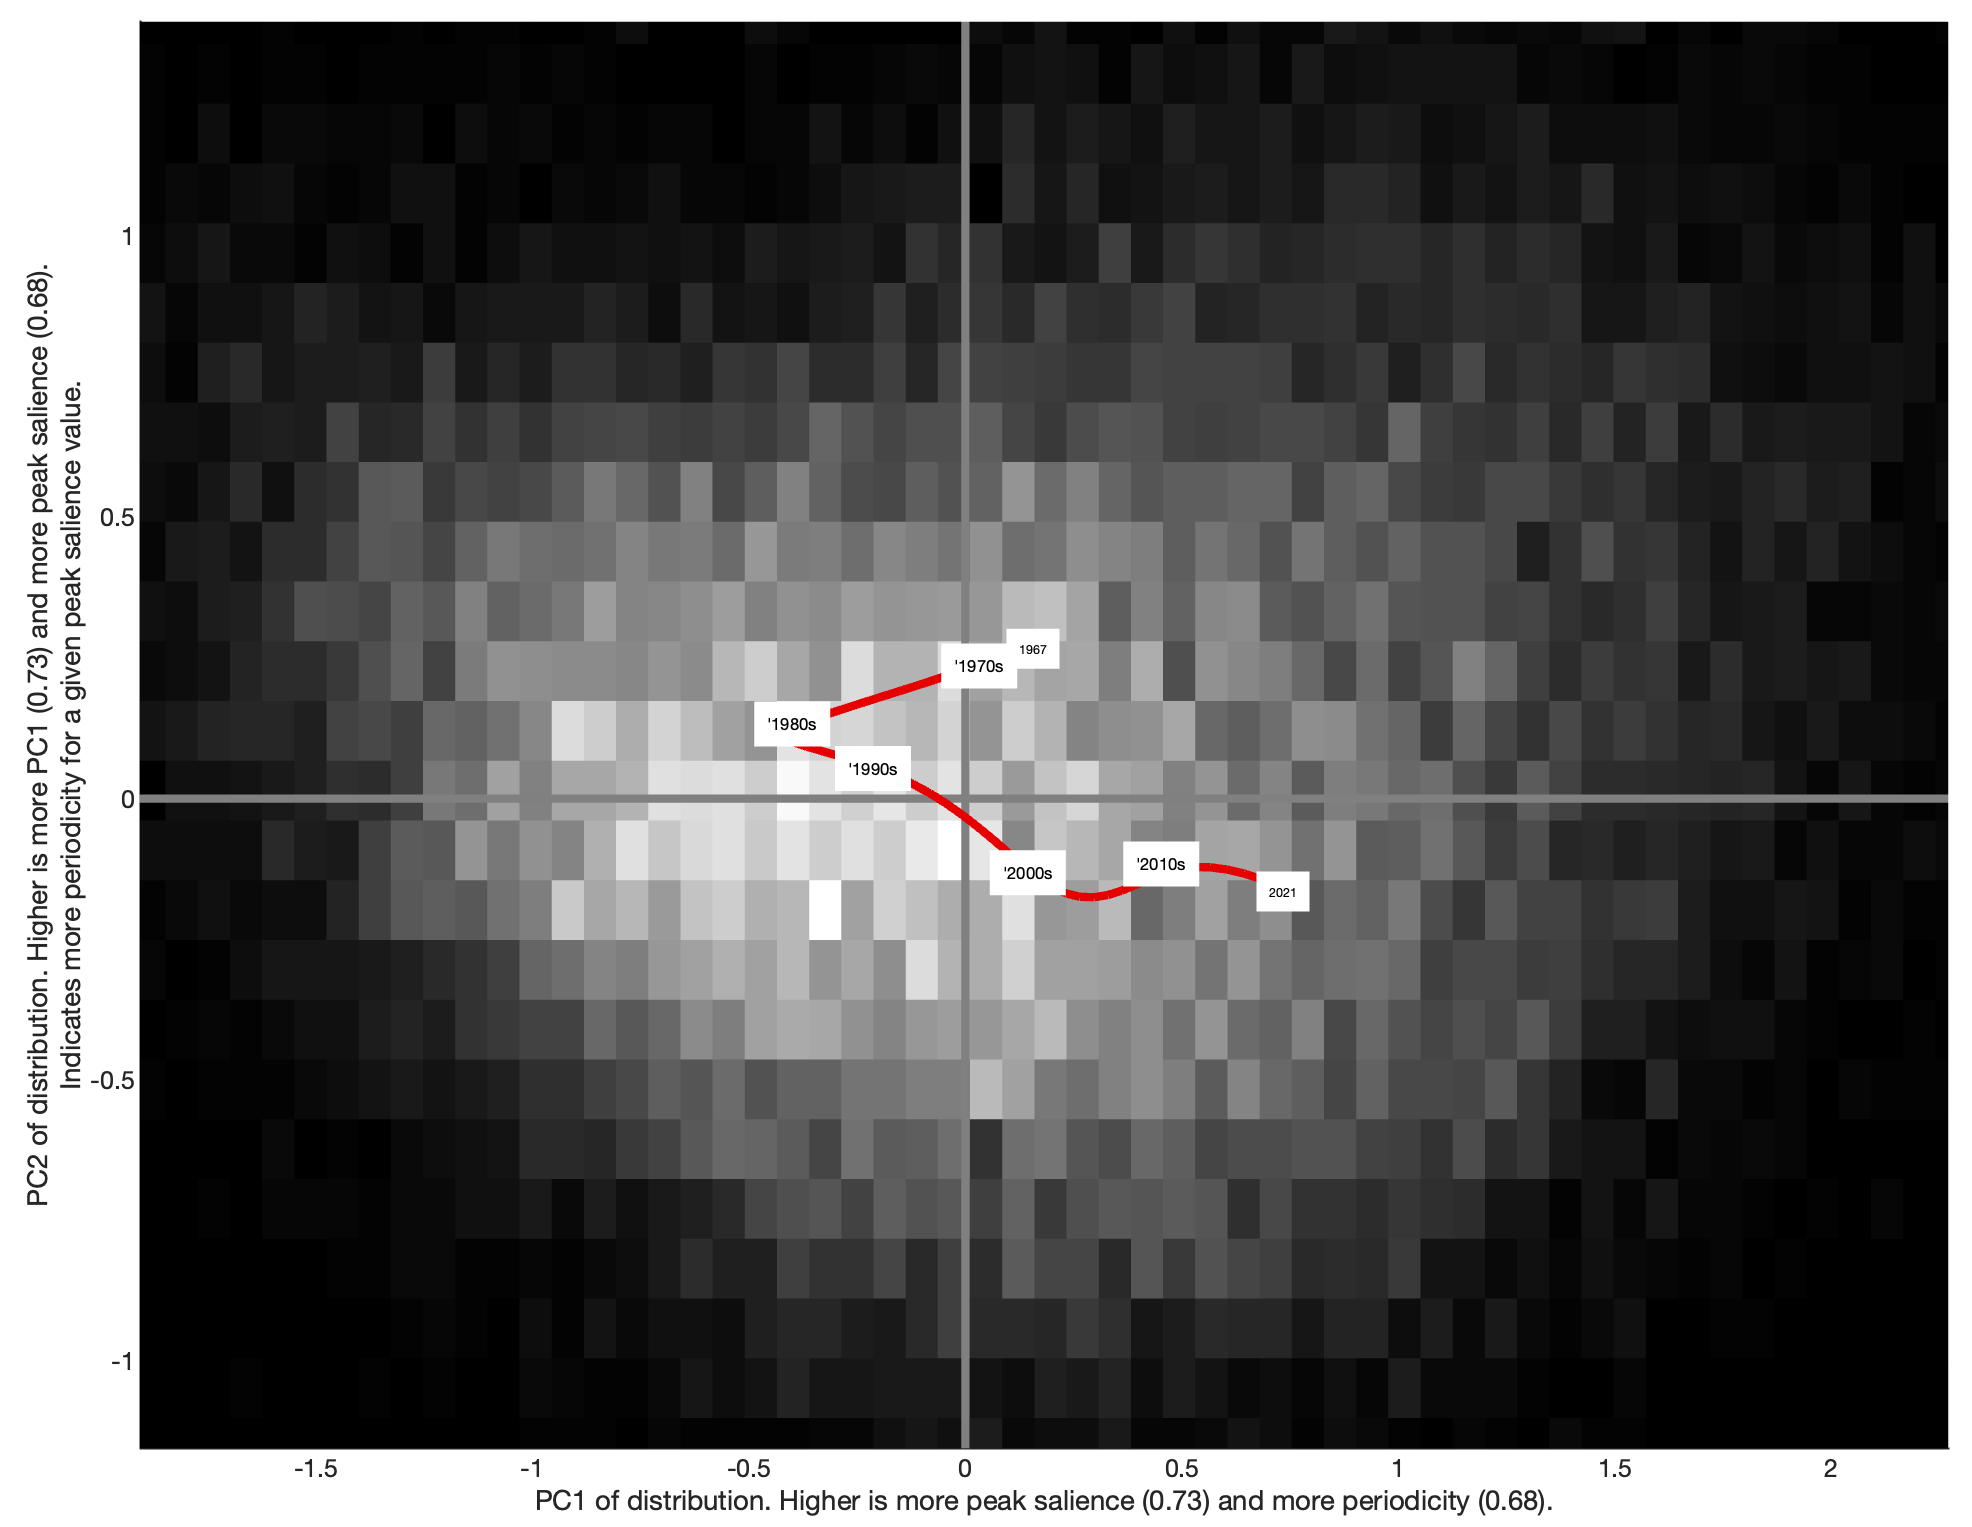
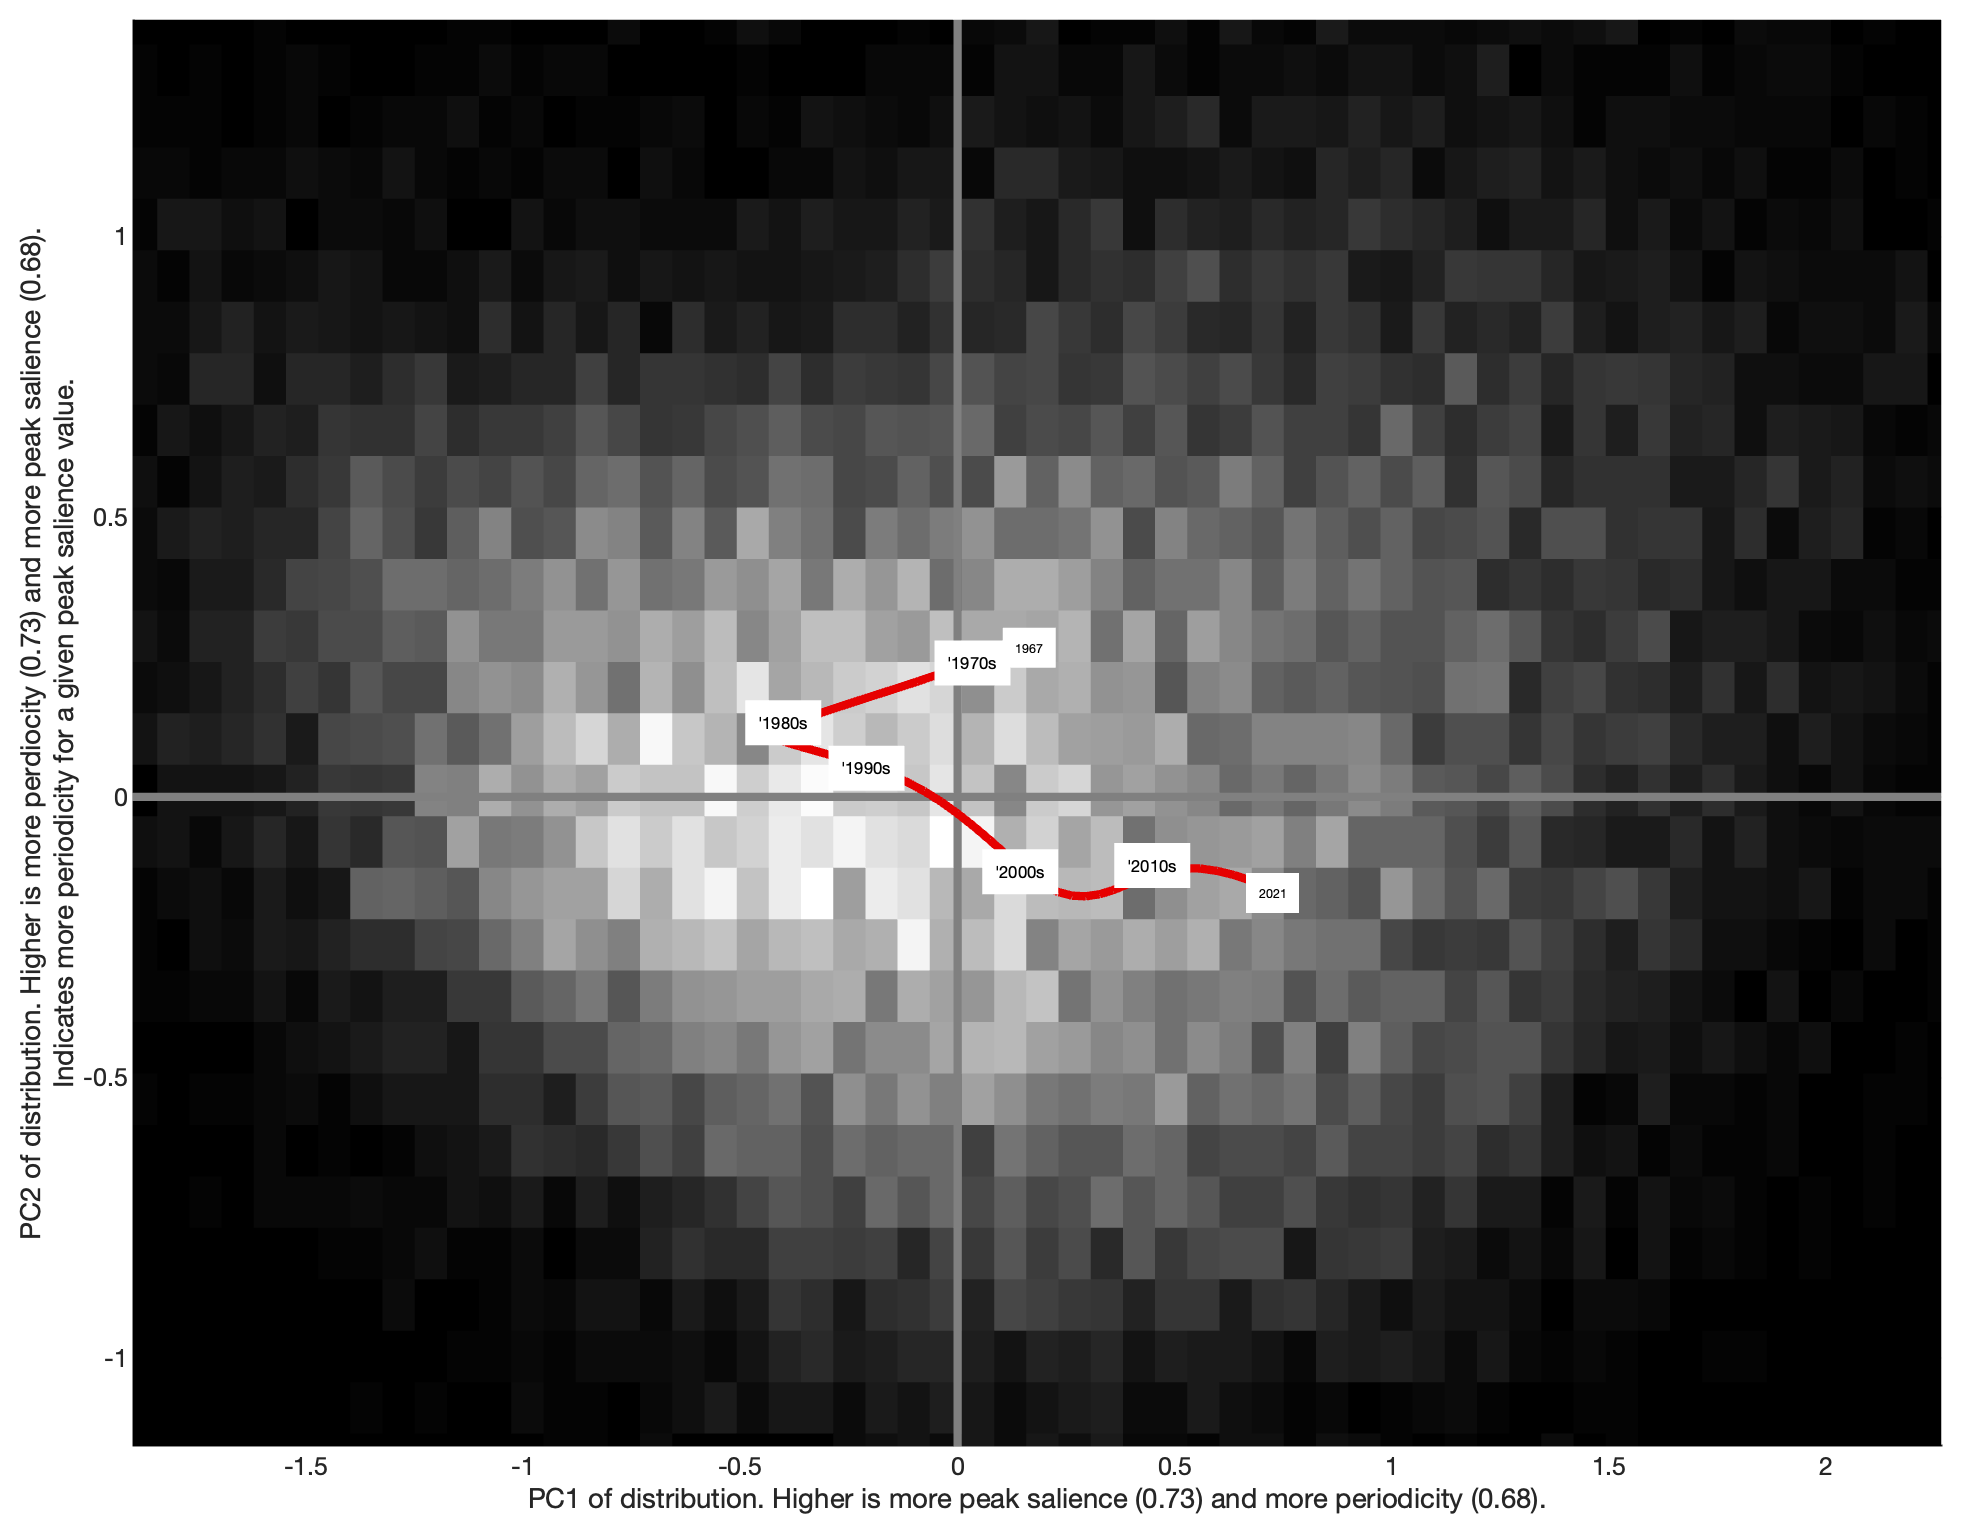
aa

diff --git a/docs/index.html b/docs/index.html
@@ -382,7 +382,7 @@ Bottom, each band is normalised with its mean value. Higher and lower bands foll
       </strong></td>
     </tr>
     <tr>
-      <td width="46" rowspan="4" style="text-align: left">&nbsp;</td>
+      <td width="46" rowspan="8" style="text-align: left">&nbsp;</td>
       <td colspan="2" style="text-align: center"><p> <span style="text-align: center">Both &quot;peak salience&quot; and &quot;periodicity&quot; here relates to the physical, non-weighted domain.</span>        </p>
         <table width="50%" border="0" align="center" cellpadding="0" cellspacing="0">
           <tbody>
@@ -416,6 +416,38 @@ Bottom, each band is normalised with its mean value. Higher and lower bands foll
       PCA version will indicate that CPM has generally lower periodicity at equal peak salience and that the trend is increasing. -&gt;<br>
       </p></td>
       <td style="text-align: center">&nbsp;</td>
+    </tr>
+    <tr>
+      <td style="text-align: center"><a href="imgs/BEA_WE_Harm_straight_authors_upload.png"><img src="imgs/BEA_WE_Harm_straight_authors_upload.png" width="400" height="319" alt=""/><br>
+        <span style="font-size: small">Click to enlarge</span></a></td>
+      <td style="text-align: center; font-size: small;"><a href="imgs/BEA_WE_Harm_straight_rotated_authors_upload.png"><img src="imgs/BEA_WE_Harm_straight_rotated_authors_upload.png" width="400" height="305" alt=""/><br>
+      Click to enlarge</a></td>
+    </tr>
+    <tr>
+      <td style="text-align: center">Single authors, peak salience vs periodicity.</td>
+      <td style="text-align: center">PCA of the left diagram.</td>
+    </tr>
+    <tr>
+      <td style="text-align: center; font-size: small;"><a href="imgs/BEA_WE_Harm_straight_albums_upload.png"><img src="imgs/BEA_WE_Harm_straight_albums_upload.png" width="400" height="303" alt=""/><br>
+      Click to enlarge</a></td>
+      <td style="text-align: center; font-size: small;"><a href="imgs/BEA_WE_Harm_rotated_albums_upload.png"><img src="imgs/BEA_WE_Harm_rotated_albums_upload.png" width="400" height="303" alt=""/><br>
+      Click to enlarge</a></td>
+    </tr>
+    <tr>
+      <td style="text-align: center">Single albums, peak salience vs periodicity.</td>
+      <td style="text-align: center">PCA of the left diagram.</td>
+    </tr>
+    <tr>
+      <td style="text-align: left">&nbsp;</td>
+      <td style="text-align: center"><a href="imgs/BEA_WE_Harm_straight_tracks_upload.png"><img src="imgs/BEA_WE_Harm_straight_tracks_upload.png" width="400" height="303" alt=""/><br>
+Click to enlarge</a></td>
+      <td style="text-align: center"><a href="imgs/BEA_WE_Harm_rotated_tracks_upload.png"><img src="imgs/BEA_WE_Harm_rotated_tracks_upload.png" width="400" height="303" alt=""/><br>
+Click to enlarge</a></td>
+    </tr>
+    <tr>
+      <td style="text-align: left">&nbsp;</td>
+      <td style="text-align: center">Single tracks, peak salience vs periodicity - INCORRECT, REDO</td>
+      <td style="text-align: center">PCA of the left diagram - INCORRECT, REDO</td>
     </tr>
     <tr>
       <td colspan="3" style="text-align: center"><p><strong>Possible interpretation<br>
@@ -512,6 +544,42 @@ Bottom, each band is normalised with its mean value. Higher and lower bands foll
         </tbody>
       </table></td>
       <td style="text-align: center">&nbsp;</td>
+    </tr>
+    <tr>
+      <td style="text-align: center">&nbsp;</td>
+      <td style="text-align: center"><a href="imgs/BEA_WE_Harm_weighted_straight_authors_upload.png"><img src="imgs/BEA_WE_Harm_weighted_straight_authors_upload.png" width="400" height="319" alt=""/><br>
+        <span style="font-size: small">Click to enlarge</span></a></td>
+      <td style="text-align: center; font-size: small;"><a href="imgs/BEA_WE_Harm_weighted_rotated_authors_upload.png"><img src="imgs/BEA_WE_Harm_weighted_rotated_authors_upload.png" width="400" height="305" alt=""/><br>
+        Click to enlarge</a></td>
+    </tr>
+    <tr>
+      <td style="text-align: center">&nbsp;</td>
+      <td style="text-align: center">Weighted: single authors, peak salience vs periodicity.</td>
+      <td style="text-align: center">PCA of the left diagram.</td>
+    </tr>
+    <tr>
+      <td style="text-align: center">&nbsp;</td>
+      <td style="text-align: center; font-size: small;"><a href="imgs/BEA_WE_Harm_weighted_straight_albums_upload.png"><img src="imgs/BEA_WE_Harm_weighted_straight_albums_upload.png" width="400" height="303" alt=""/><br>
+        Click to enlarge</a></td>
+      <td style="text-align: center; font-size: small;"><a href="imgs/BEA_WE_Harm_weighted_rotated_albums_upload.png"><img src="imgs/BEA_WE_Harm_weighted_rotated_albums_upload.png" width="400" height="303" alt=""/><br>
+        Click to enlarge</a></td>
+    </tr>
+    <tr>
+      <td style="text-align: center">&nbsp;</td>
+      <td style="text-align: center">Weighted: single albums, peak salience vs periodicity.</td>
+      <td style="text-align: center">PCA of the left diagram.</td>
+    </tr>
+    <tr>
+      <td style="text-align: center">&nbsp;</td>
+      <td style="text-align: center"><a href="imgs/BEA_WE_Harm_weighted_straight_tracks_upload.png"><img src="imgs/BEA_WE_Harm_weighted_straight_tracks_upload.png" width="400" height="303" alt=""/><br>
+        Click to enlarge</a></td>
+      <td style="text-align: center"><a href="imgs/BEA_WE_Harm_weighted_rotated_tracks_upload.png"><img src="imgs/BEA_WE_Harm_weighted_rotated_tracks_upload.png" width="400" height="303" alt=""/><br>
+        Click to enlarge</a></td>
+    </tr>
+    <tr>
+      <td style="text-align: center">&nbsp;</td>
+      <td style="text-align: center">Single tracks, peak salience vs periodicity - INCORRECT, REDO</td>
+      <td style="text-align: center">PCA of the left diagram  - INCORRECT, REDO</td>
     </tr>
 	  <tr>
       <td colspan="3" bgcolor="#88F5FF" style="text-align: center"><strong> <br>
